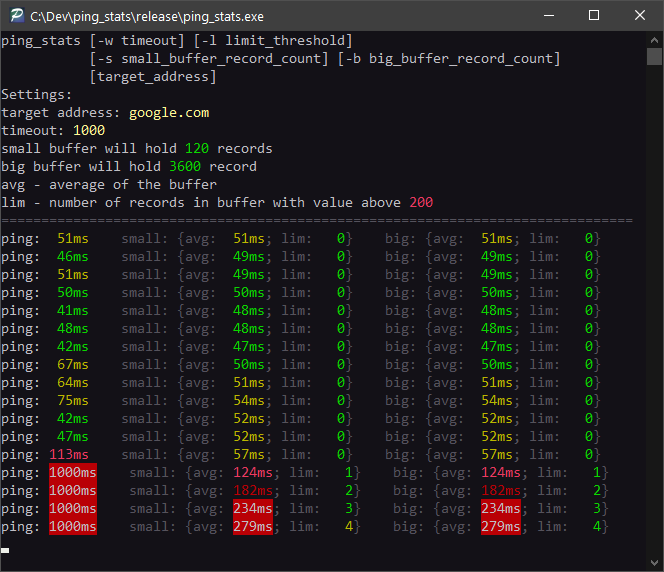
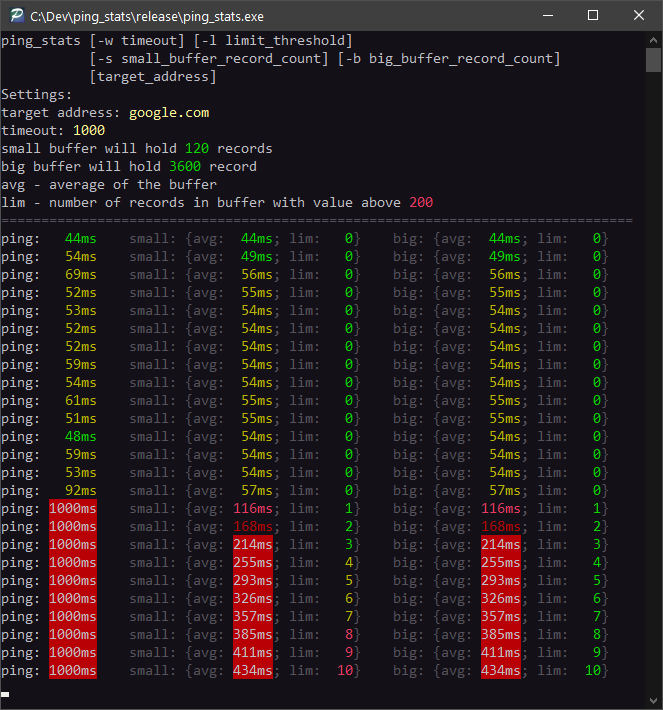
Small text alignment fix

Changed region(s): [[0.0, 0.0, 1.0, 0.9808], [0.8748, 0.3269, 0.9351, 0.951], [0.9653, 0.9808, 0.9955, 1.0]]

diff --git a/code/ping_stats.cpp b/code/ping_stats.cpp
@@ -365,7 +365,7 @@ int main(int argument_count, char **arguments)
         
         // NOTE: Calculate colors and print the output
         printf("%s"
-               "ping: %s%3dms"
+               "ping: %s%4dms"
                "%s    "
                "small: {"
                "avg: %s%3.0fms"
